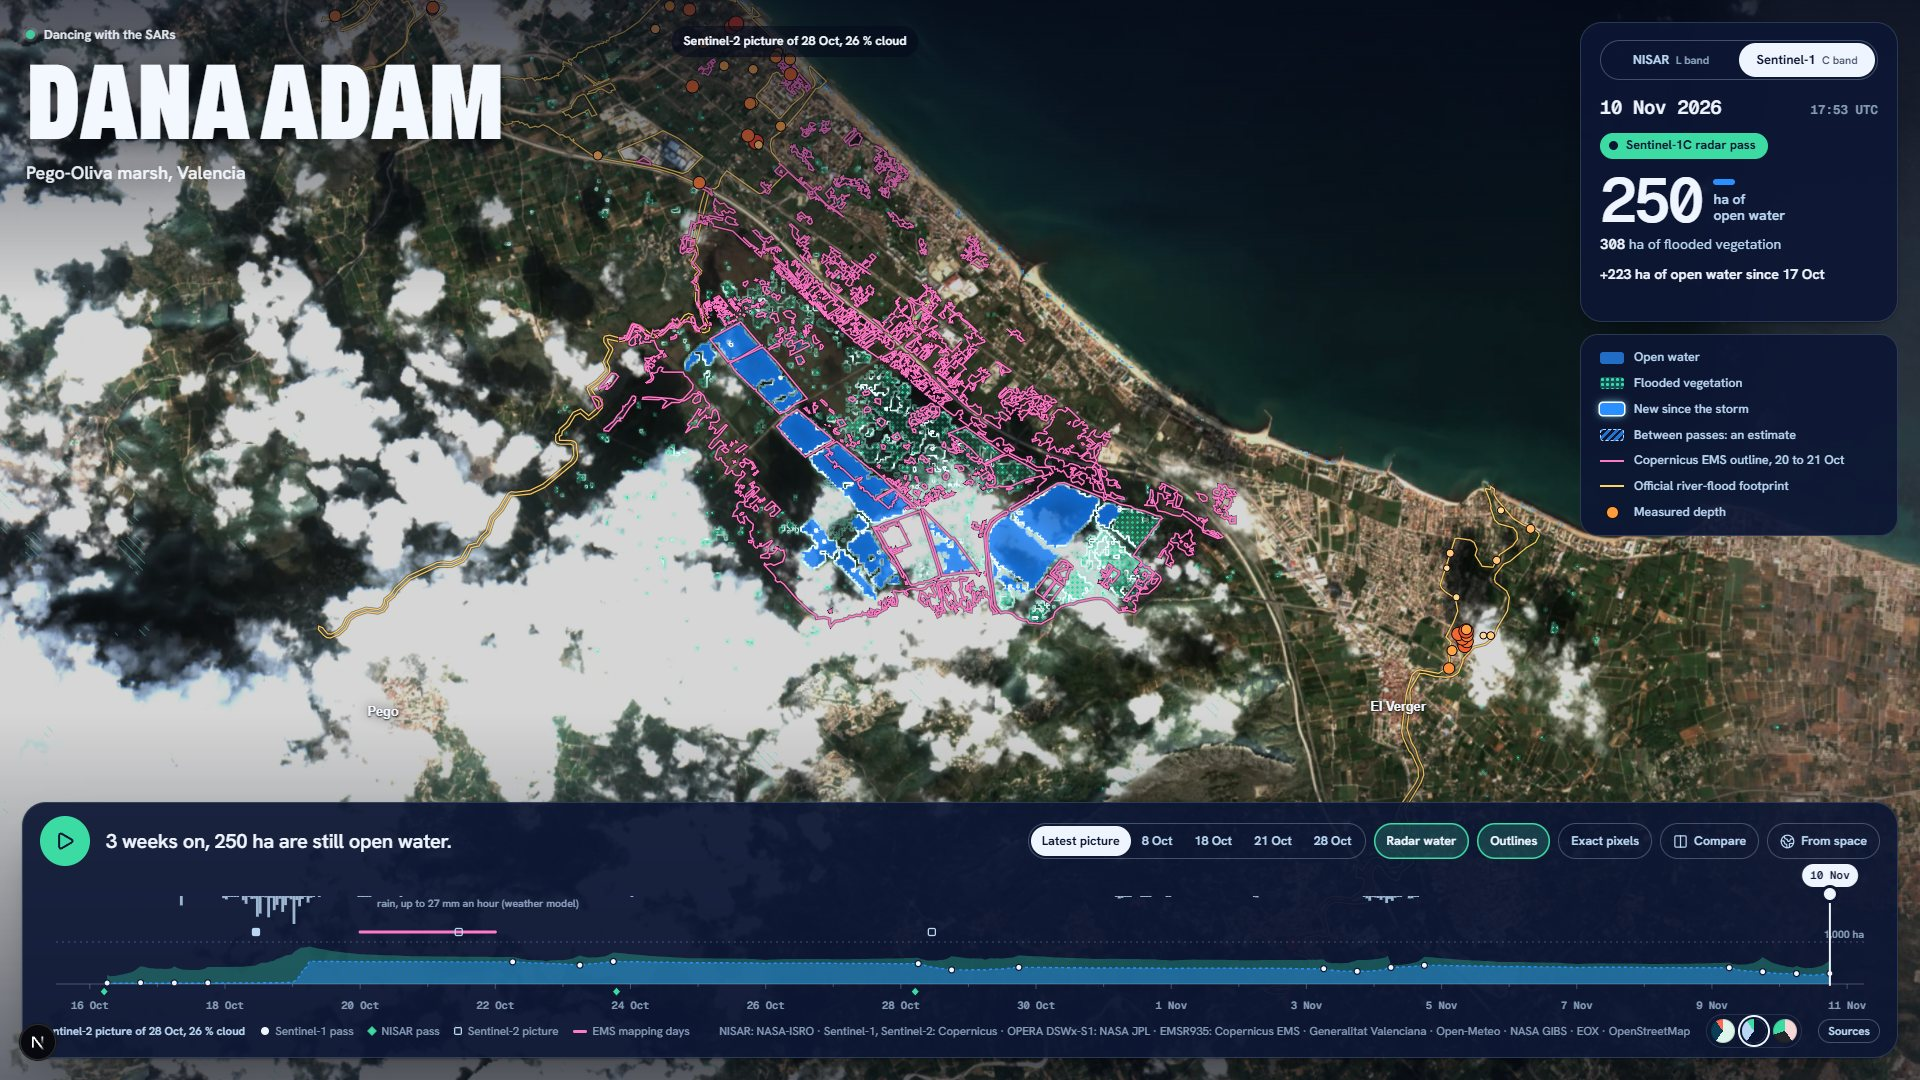
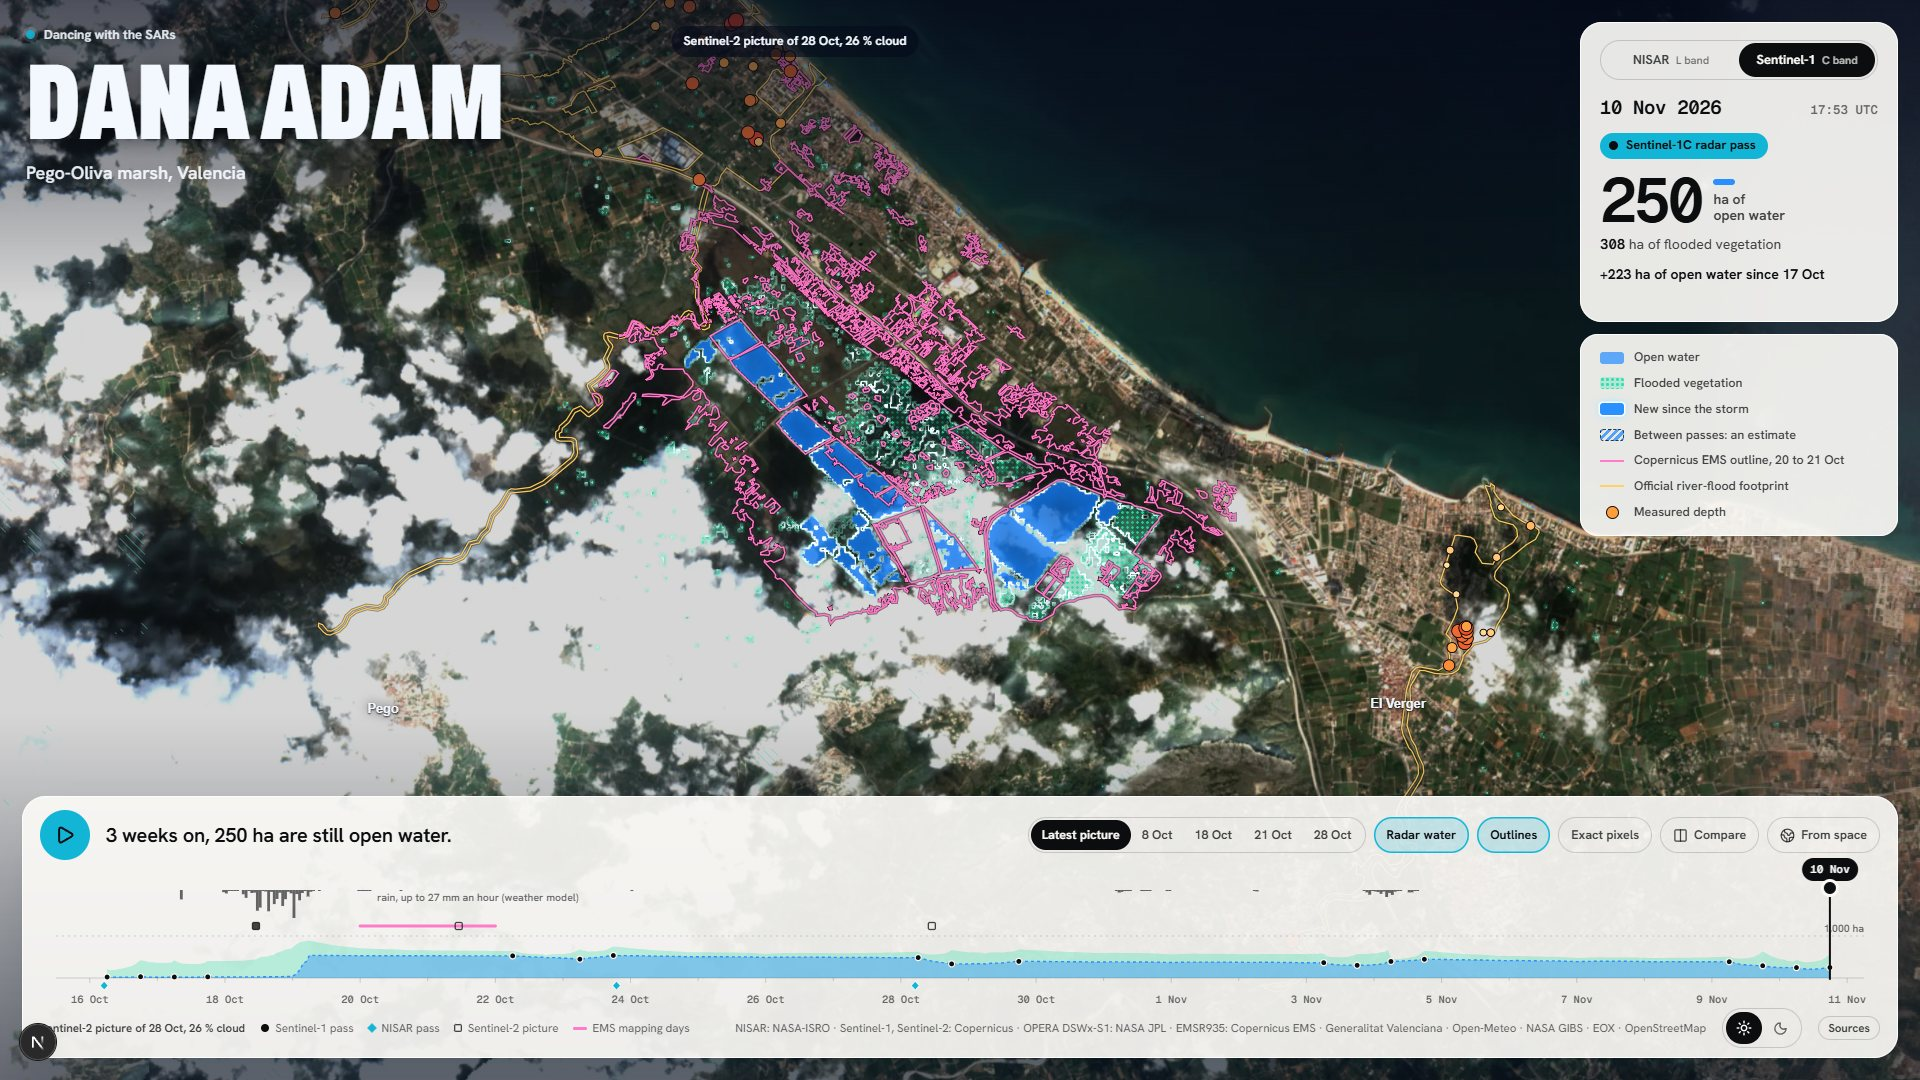
docs(storyboard): reshoot the real frames in the Lagoon theme
The film frames are shot by night and the app frames by day, on the
merged theme. The doc names the theme, and says the three mockups were
drawn before it.

Written with SI assistance (Claude Code).

diff --git a/docs/MAP_VISUALIZATION.md b/docs/MAP_VISUALIZATION.md
@@ -128,7 +128,7 @@ From the ground up, all on one Web Mercator grid:
 5. **Reference lines**: Copernicus EMS in pink, the Generalitat footprint in yellow, measured depths as dots. They appear on the day they describe.
 6. **Names**: a few place names.
 
-Colour. Data colours are fixed in every palette of the app, because they carry meaning:
+Colour. The panels wear the Lagoon theme of the app, by day and by night. Data colours are the same in both, because they carry meaning:
 
 | Meaning | Look |
 |---|---|
@@ -178,7 +178,7 @@ The first and last day rasters of the CV export are not used: this method needs 
 
 ### The film, 30 seconds
 
-Frames marked **real** are screenshots of the running app on real data (`web/scripts/shoot_flood.py`). Frames marked **mockup** were made with an SI image model for scenes that are not built yet; they carry a visible watermark and every number in them is a placeholder.
+Frames marked **real** are screenshots of the running app on real data (`web/scripts/shoot_flood.py`). Frames marked **mockup** were made with an SI image model for scenes that are not built yet; they carry a visible watermark and every number in them is a placeholder. The mockups were drawn before the app took the Lagoon theme, so their panels are navy.
 
 | # | Time | Shot | Camera | On screen | Frame |
 |---|---|---|---|---|---|
@@ -232,7 +232,7 @@ The bake picks up every CV water layer listed in `data/manifest.json` by itself.
 - Phones: the layout adapts, the layers were only tested on a desktop graphics card.
 - The film recording runs in a headless browser; a final cut should be recorded on a real screen.
 - Frame rate: 60 a second at rest and 59 to 60 while playing on a laptop graphics card (RTX 4070), measured in a headless browser. One frame runs long (about 0.1 s) each time a new Sentinel-2 picture is put on the graphics card.
-- Open for Ilija: which of the three palettes; whether the dock is the right weight; one page per story or one page with a story switch.
+- Open for Ilija: day or night as the default on these pages (both work, the film frames are by night); whether the dock is the right weight; one page per story or one page with a story switch.
 
 ## 10. Run it
 
